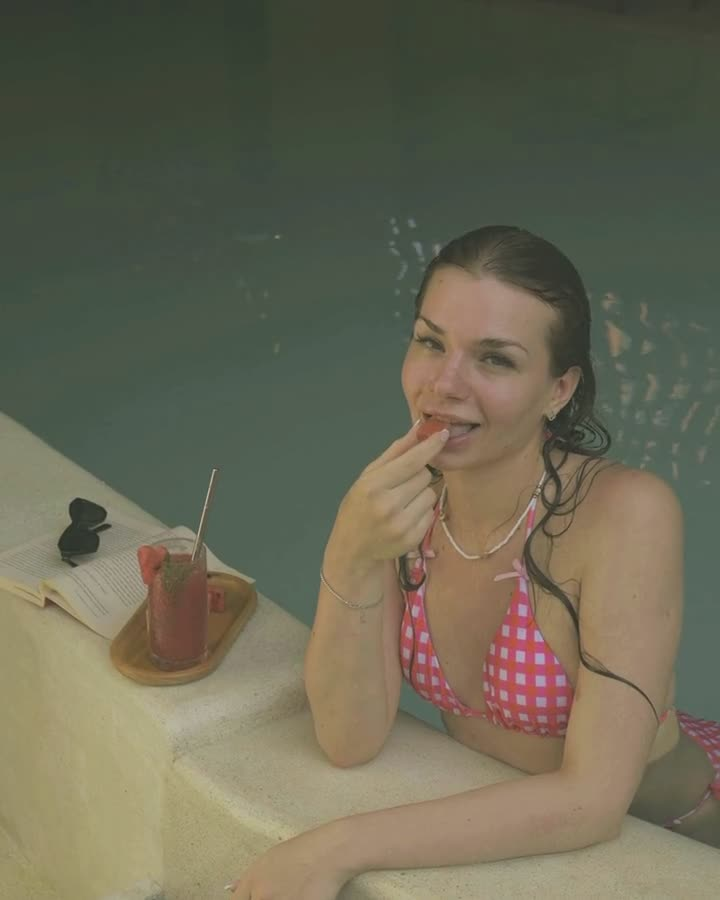
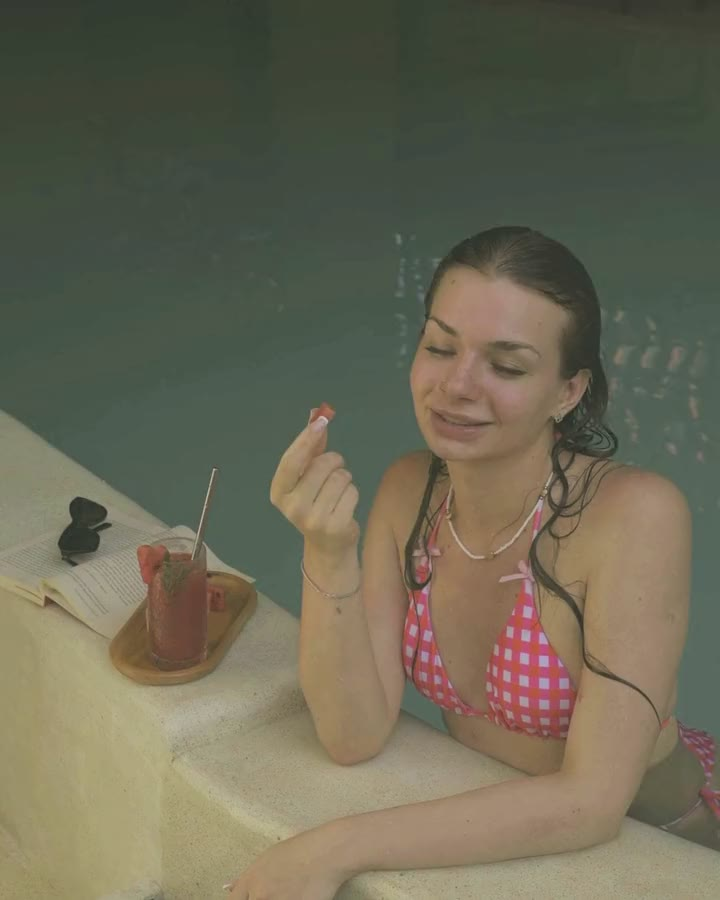
Start the Pool side paradise film from its first frame in view
The polaroid film autoplayed with the page, so by the time a visitor scrolled
down to it the loop was somewhere in the middle, and its poster (a frame 1.2s
in) jumped when playback took over. Film gains a fromStartInView option: the
film waits, paused on its first frame, until it is 35% in view, then plays
from the start; it pauses when it leaves and starts over when it returns. The
poster is now that first frame. The hero film still plays straight away.

diff --git a/src/components/ui/Film.tsx b/src/components/ui/Film.tsx
@@ -13,7 +13,19 @@ import { useEffect, useRef } from "react";
  * site set to "never autoplay"), on the visitor's first scroll, tap or key press. Safari's own
  * start button is hidden in globals.css (.film) so a film never shows a play overlay.
  */
-export default function Film({ src, className, poster }: { src: string; className?: string; poster?: string }) {
+export default function Film({
+  src,
+  className,
+  poster,
+  fromStartInView = false,
+}: {
+  src: string;
+  className?: string;
+  poster?: string;
+  /** Wait until the film scrolls into view, then play it from its first frame; pause it when it
+   *  leaves. For films further down the page, so visitors see them from the start. */
+  fromStartInView?: boolean;
+}) {
   const ref = useRef<HTMLVideoElement>(null);
 
   useEffect(() => {
@@ -23,7 +35,7 @@ export default function Film({ src, className, poster }: { src: string; classNam
     v.defaultMuted = true;
     v.playsInline = true;
     v.loop = true;
-    v.autoplay = true;
+    v.autoplay = !fromStartInView;
     v.setAttribute("muted", "");
     v.setAttribute("playsinline", "");
     v.setAttribute("webkit-playsinline", "");
@@ -32,8 +44,10 @@ export default function Film({ src, className, poster }: { src: string; classNam
       v.load();
     }
 
+    // A film that waits for the viewport only plays while it is on screen.
+    let inView = !fromStartInView;
     const kick = () => {
-      if (v.paused && !document.hidden) v.play().catch(() => {});
+      if (inView && v.paused && !document.hidden) v.play().catch(() => {});
     };
     const gestures = ["pointerdown", "touchstart", "keydown", "scroll", "wheel"] as const;
     const retry = () => {
@@ -45,20 +59,37 @@ export default function Film({ src, className, poster }: { src: string; classNam
     v.addEventListener("canplay", kick);
     document.addEventListener("visibilitychange", kick);
     gestures.forEach((g) => window.addEventListener(g, retry, { passive: true }));
+    const io = fromStartInView
+      ? new IntersectionObserver(
+          ([entry]) => {
+            if (entry.isIntersecting) {
+              if (!inView) v.currentTime = 0;
+              inView = true;
+              kick();
+            } else {
+              inView = false;
+              v.pause();
+            }
+          },
+          { threshold: 0.35 },
+        )
+      : null;
+    io?.observe(v);
     return () => {
+      io?.disconnect();
       v.removeEventListener("loadeddata", kick);
       v.removeEventListener("canplay", kick);
       document.removeEventListener("visibilitychange", kick);
       gestures.forEach((g) => window.removeEventListener(g, retry));
     };
-  }, [src]);
+  }, [src, fromStartInView]);
 
   return (
     <video
       ref={ref}
       className={clsx("film", className)}
       poster={poster}
-      autoPlay
+      autoPlay={!fromStartInView}
       muted
       loop
       playsInline

diff --git a/src/lib/content.ts b/src/lib/content.ts
@@ -73,7 +73,8 @@ export const SITE = {
   // screens ("wide", 1080p) and a 9:16 one for portrait screens (720x1280), each framed per shot.
   heroVideo: { src: "/video/hero.mp4", wide: "/video/hero-wide.mp4", poster: "/video/hero-poster.jpg" },
   // The polaroid in "Pool side paradise": a guest at the pool edge, snacking and laughing. A 5.8s
-  // 4:5 loop from the same shoot and grade, its end crossfaded into its start so it never jumps.
+  // 4:5 loop from the same shoot, its end crossfaded into its start so it never jumps. It plays from
+  // its first frame (also the poster) once scrolled into view.
   vibeVideo: { src: "/video/pool-girl.mp4", poster: "/video/pool-girl.jpg" },
   // TODO(confirm): social handles and links.
   instagram: { handle: "@kokoy.poolclub", url: "https://www.instagram.com/" },

diff --git a/src/components/sections/Vibe.tsx b/src/components/sections/Vibe.tsx
@@ -92,7 +92,7 @@ export default function Vibe() {
             <div data-vibe-porthole>
               <div className="rotate-[4deg] bg-white p-3 pb-12 shadow-[0_34px_60px_-24px_rgb(0_0_0/0.75)] md:p-4 md:pb-16">
                 <div role="img" aria-label={t.alt.underwater} className="relative aspect-[4/5] overflow-hidden bg-charcoal">
-                  <Film src={SITE.vibeVideo.src} poster={SITE.vibeVideo.poster} className="absolute inset-0 size-full object-cover" />
+                  <Film src={SITE.vibeVideo.src} poster={SITE.vibeVideo.poster} fromStartInView className="absolute inset-0 size-full object-cover" />
                 </div>
               </div>
             </div>
